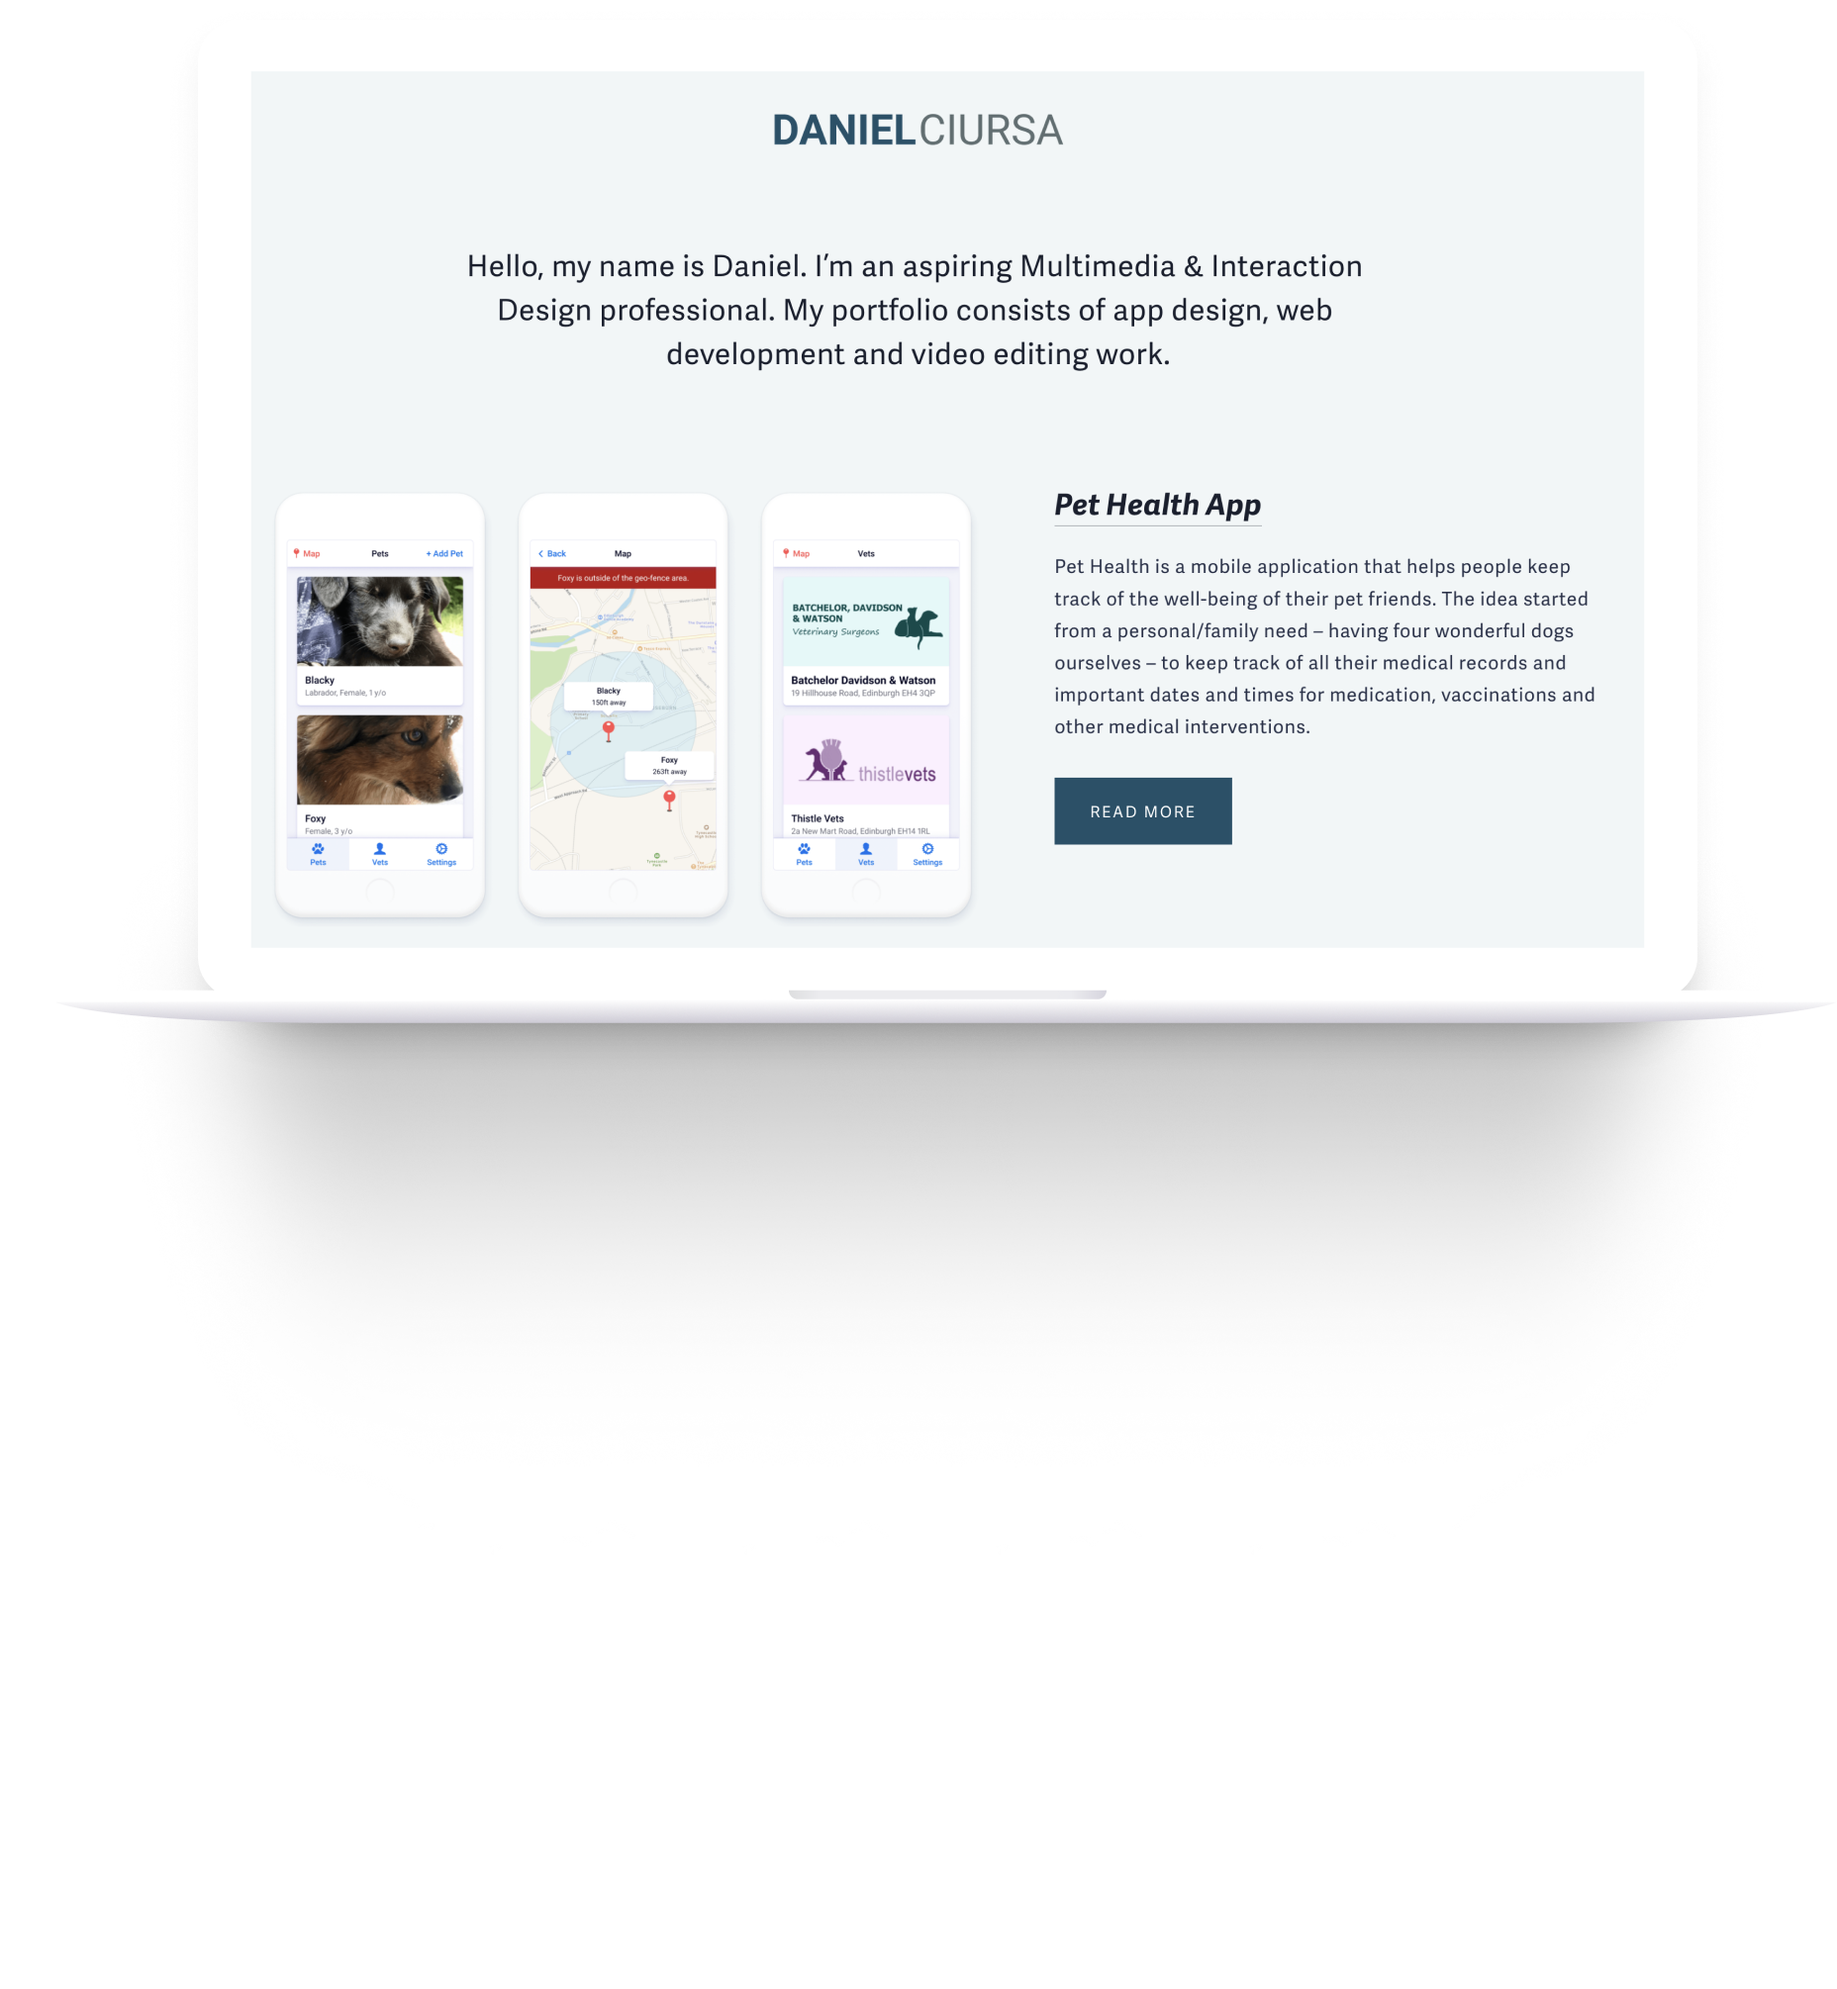
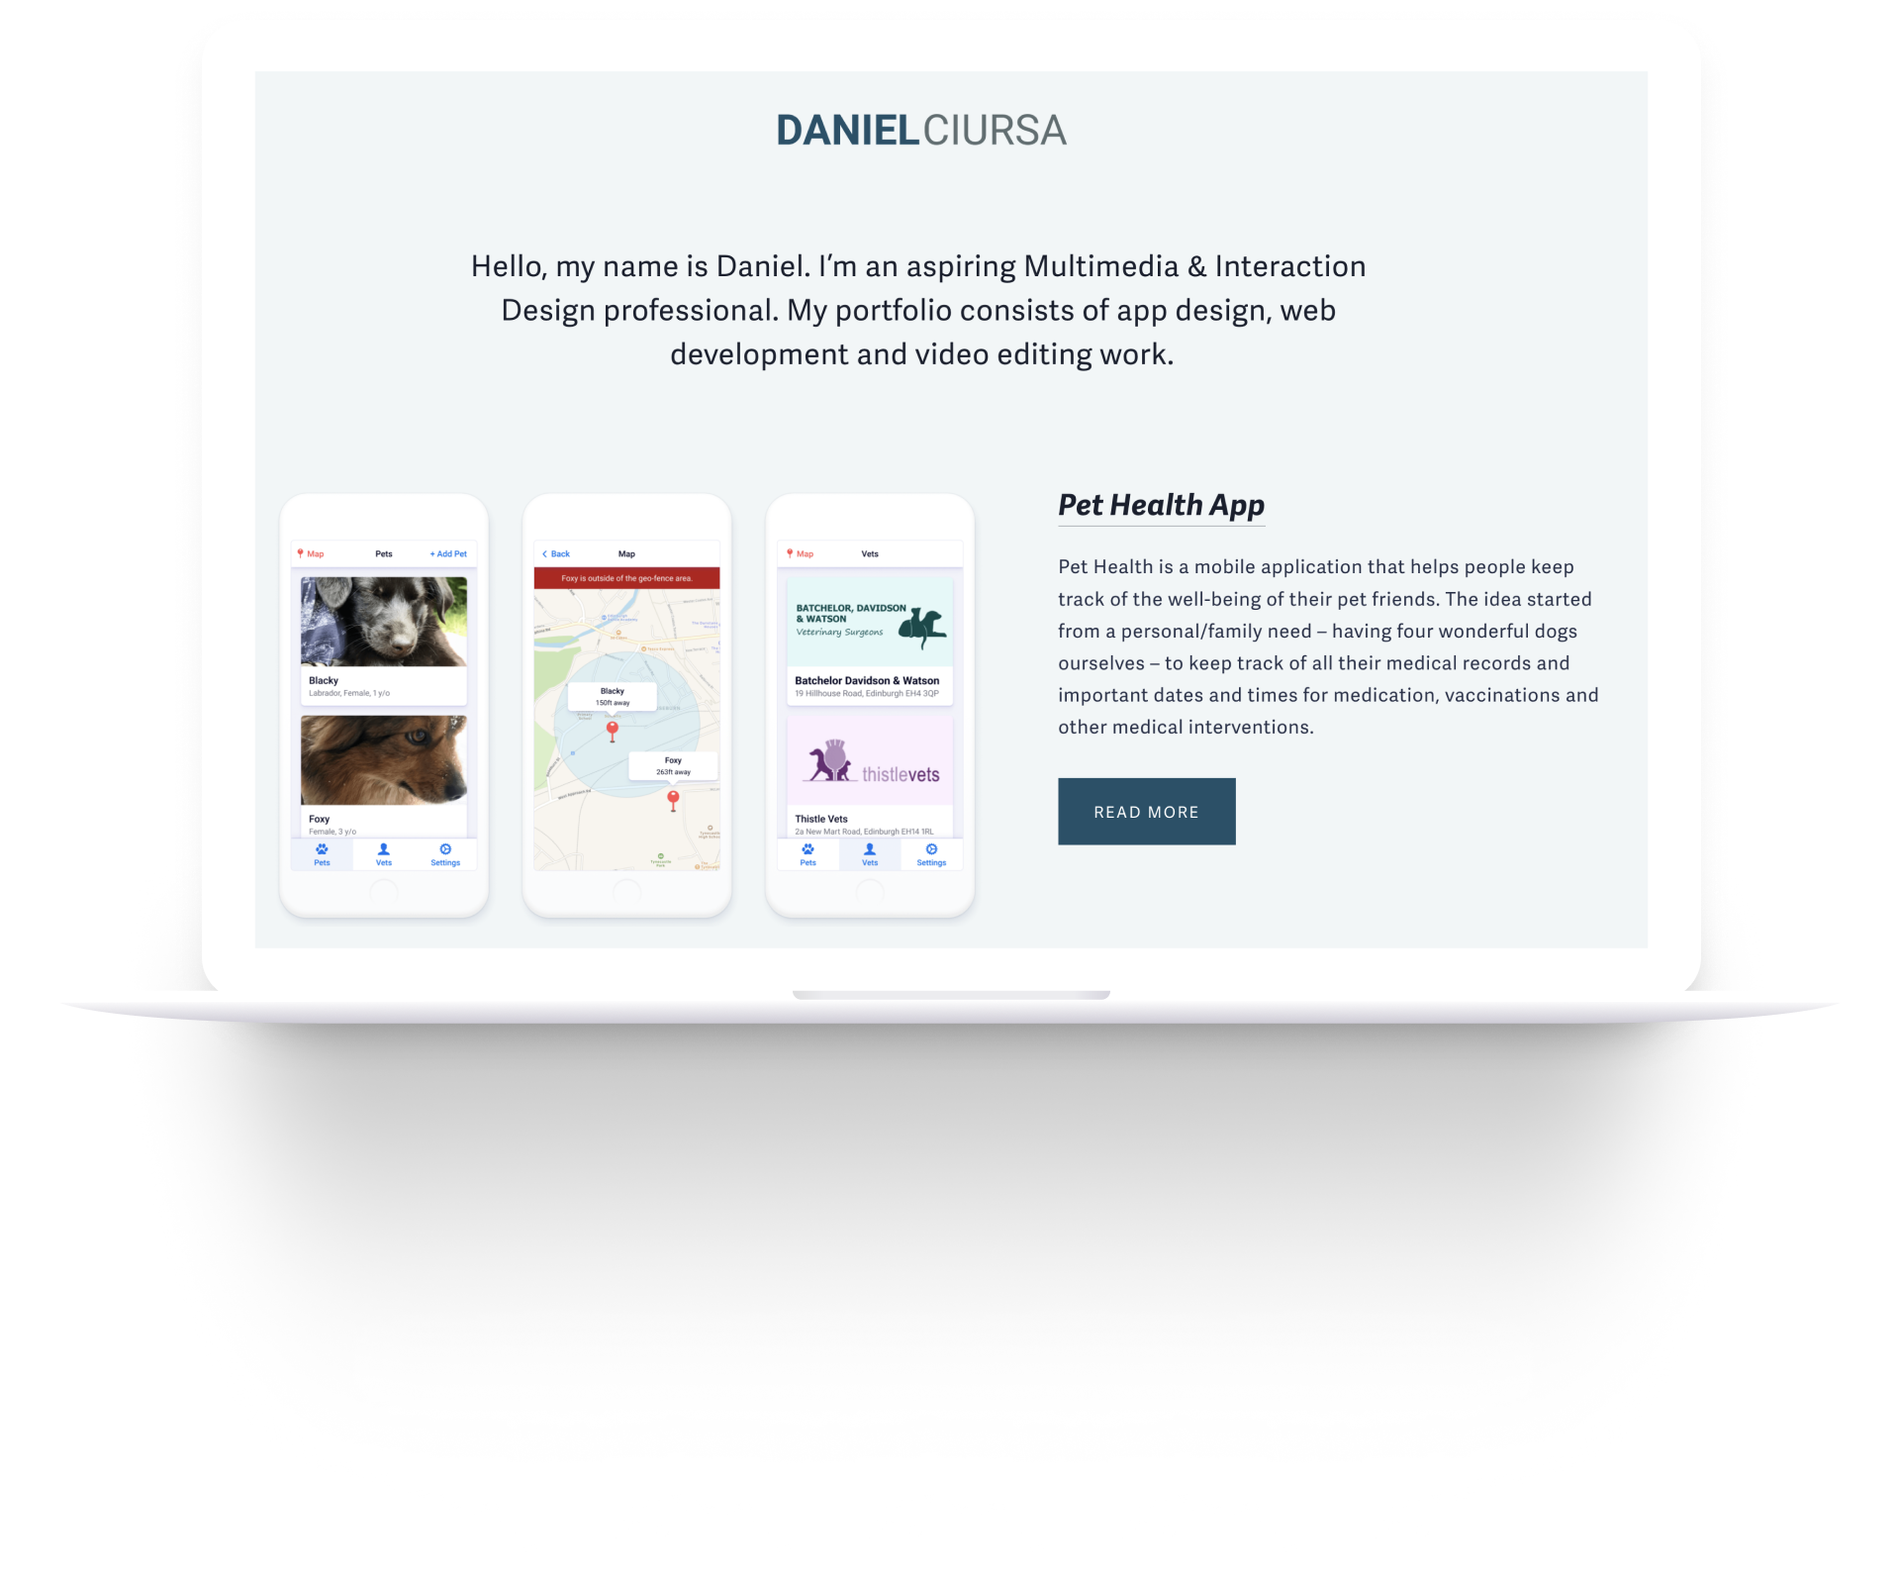
Homepage design

Changed region(s): [[0.0625, 0.125, 0.9375, 0.7812], [0.4062, 0.0625, 0.5625, 0.0938]]

diff --git a/index.html b/index.html
@@ -1,64 +1,91 @@
 <!DOCTYPE html>
 <html lang="en">
-<head>
-  <meta charset="UTF-8">
-  <meta name="viewport" content="width=device-width, initial-scale=1.0">
-  <meta http-equiv="X-UA-Compatible" content="ie=edge">
-  <title>Daniel Ciursa</title>
-  <link href="style.css" rel="stylesheet">
-</head>
-<body>
-  <a href="index.html" class="logo">
-    <img src="img/logo@2x.png" alt="Logo of Daniel Ciursa" width="208" height="36" />
-  </a>
+  <head>
+    <meta charset="UTF-8">
+    <meta name="viewport" content="width=device-width, initial-scale=1.0">
+    <meta http-equiv="X-UA-Compatible" content="ie=edge">
+    <title>Daniel Ciursa</title>
+    <link href="css/reset.css" rel="stylesheet">
+    <link href="css/style.css" rel="stylesheet">
+  </head>
+  <body>
+    <div class="wrapper">
+      <a href="index.html" class="logo">
+        <img src="img/logo@2x.png" alt="Logo of Daniel Ciursa" width="208" height="36" />
+      </a>
+  
+      <p class="intro">
+        Hello, my name is Daniel. I’m an aspiring Multimedia & Interaction Design student. My portfolio consists of web/app design and video editing work.
+      </p>
+  
+      <section class="project">
+        <div>
+          <img class="project-image" src="img/mockup-squarespace-portfolio@2x.png" width="960" height="1005" />
+        </div>
+        <div class="project-content">
+          <h2 class="project-title">
+            <a href="">Pet Health App</a>
+          </h2>
+          <p class="project-description">
+            Pet Health is a mobile application that helps people keep track of the well-being of their pet friends. The idea started from a personal/family need – having four wonderful dogs ourselves – to keep track of all their medical records and important dates and times for medication, vaccinations and other medical interventions.
+          </p>
+          <a href="" class="button">Read More</a>
+        </div>
+      </section>
+  
+      <section class="project">
+        <div>
+          <img class="project-image" src="img/mockup-clash-royale@2x.png" width="960" height="1005" />
+        </div>
+        <div class="project-content">
+          <h2 class="project-title">
+            <a href="">Clash Royale Website</a>
+          </h2>
+          <p class="project-description">
+            After learning HTML and CSS from various online courses and tutorials, the Clash Royale was one of the first multi-page websites I developed, inspired by the mobile game with the same name from Supercell. Click "Read More" below to view a short clip of my development process and see the website in action.
+          </p>
+          <a href="" class="button">Read More</a>
+        </div>
+      </section>
+  
+      <section class="project">
+        <div>
+          <img class="project-image" src="img/mockup-league-of-legends@2x.png" width="960" height="1005" />
+        </div>
+        <div class="project-content">
+          <h2 class="project-title">
+            <a href="">League of Legends Website</a>
+          </h2>
+          <p class="project-description">
+            League of Legends is one of my favourite desktop games and I used it as inspiration for this website. My goal with this project was to learn more about CSS transitions/animations and create a responsive website. Follow the link below to read more and see the website in action.
+          </p>
+          <a href="" class="button">Read More</a>
+        </div>
+      </section>
+  
+      <section class="project">
+        <div>
+          <img class="project-image" src="img/mockup-squarespace-portfolio@2x.png" width="960" height="1005" />
+        </div>
+        <div class="project-content">
+          <h2 class="project-title">
+            <a href="">Portfolio Design</a>
+          </h2>
+          <p class="project-description">
+            I designed this portfolio using SquareSpace with some minimal tweaks to its CSS. Follow the link below to see a video of the design and development process.
+          </p>
+          <a href="" class="button">Read More</a>  
+        </div>
+      </section>
+    </div>
 
-  <p class="intro">
-    Hello, my name is Daniel. I’m an aspiring Multimedia & Interaction Design student. My portfolio consists of web/app design and video editing work.
-  </p>
-
-  <section class="project">
-    <h2 class="project-title">
-      <a href="">Pet Health App</a>
-    </h2>
-    <p class="project-description">
-      Pet Health is a mobile application that helps people keep track of the well-being of their pet friends. The idea started from a personal/family need – having four wonderful dogs ourselves – to keep track of all their medical records and important dates and times for medication, vaccinations and other medical interventions.
-    </p>
-    <a href="" class="button">Read More</a>
-    <!-- <img src="img/mockup-squarespace-portfolio@2x.png" widht="928" height="1005" /> -->
-  </section>
-
-  <section class="project">
-    <h2 class="project-title">
-      <a href="">Clash Royale Website</a>
-    </h2>
-    <p class="project-description">
-      After learning HTML and CSS from various online courses and tutorials, the Clash Royale was one of the first multi-page websites I developed, inspired by the mobile game with the same name from Supercell. Click "Read More" below to view a short clip of my development process and see the website in action.
-    </p>
-    <a href="" class="button">Read More</a>
-    <!-- <img src="img/mockup-squarespace-portfolio@2x.png" widht="928" height="1005" /> -->
-  </section>
-
-  <section class="project">
-    <h2 class="project-title">
-      <a href="">League of Legends Website</a>
-    </h2>
-    <p class="project-description">
-      League of Legends is one of my favourite desktop games and I used it as inspiration for this website. My goal with this project was to learn more about CSS transitions/animations and create a responsive website. Follow the link below to read more and see the website in action.
-    </p>
-    <a href="" class="button">Read More</a>
-    <!-- <img src="img/mockup-squarespace-portfolio@2x.png" widht="928" height="1005" /> -->
-  </section>
-
-  <section class="project">
-    <h2 class="project-title">
-      <a href="">Portfolio Design</a>
-    </h2>
-    <p class="project-description">
-      I designed this portfolio using SquareSpace with some minimal tweaks to its CSS. Follow the link below to see a video of the design and development process.
-    </p>
-    <a href="" class="button">Read More</a>
-    <!-- <img src="img/mockup-squarespace-portfolio@2x.png" widht="928" height="1005" /> -->
-  </section>
-
-</body>
+    <footer>
+      <a class="email" href="mailto:daniel.ciursa@gmail.com">
+        daniel.ciursa@gmail.com
+      </a>
+      <div class="copyright">
+        Powered by Shockatie
+      </div>
+    </footer>
+  </body>
 </html>

diff --git a/css/style.css b/css/style.css
@@ -1,0 +1,106 @@
+html {
+  border-top: 3px solid #2c5067;
+  background-color: #f2f7f4;
+  color: #1a1f2d;
+  font-family: sans-serif;
+  font-size: 18px;
+  width: 100%;
+}
+
+.wrapper {
+  max-width: 1280px;
+  margin: 0 auto;
+  padding: 0 50px 50px;
+}
+
+h1, h2, h3, h4, h5, h6 {
+  font-weight: bold;
+  margin-bottom: 0.75em; 
+}
+
+h1 { font-size: 32px; }
+h2 { font-size: 28px; }
+h3 { font-size: 24px; }
+h4 { font-size: 22px; }
+h5 { font-size: 20px; }
+h6 { font-size: 18px; }
+
+p {
+  line-height: 1.5em;
+}
+
+.logo {
+  width: 208px;
+  height: 36px;
+  display: block;
+  margin: 28px auto 80px;
+}
+
+.intro {
+  font-size: 28px;
+  text-align: center;
+  max-width: 880px;
+  margin: 0 auto 80px; 
+}
+
+.project {
+  margin: 0 0 160px;
+}
+
+@media (min-width:800px) {
+  .project {
+    display: flex;
+  }
+}
+
+.project-image {
+  width: 100%;
+  height: auto;
+  max-width: 860px;
+  margin-bottom: -80px;
+}
+
+.project-content {
+  flex: 1 0 400px;
+}
+
+.project-title {
+  font-style: italic;
+}
+
+.project-title a {
+  color: #1a1f2d;
+  text-decoration: none;
+  border-bottom: 1px solid grey;
+}
+
+.project-description {
+  margin-bottom: 32px;
+}
+
+.button {
+  color: #fff;
+  background-color: #2c5067;
+  text-decoration: none;
+  text-transform: uppercase;
+  padding: 16px 24px;
+  display: inline-block;
+}
+
+footer {
+  background-color: #e6eef0;
+  padding: 80px 50px;
+  text-align: center; 
+}
+
+footer .email {
+  border-bottom: 1px solid grey;
+  text-decoration: none;
+  font-size: 30px;
+  color: #1a1f2d;
+}
+
+footer .copyright {
+  margin-top: 32px;
+  font-size: 19px;
+}

diff --git a/css/reset.css b/css/reset.css
@@ -1,0 +1,48 @@
+/* http://meyerweb.com/eric/tools/css/reset/ 
+   v2.0 | 20110126
+   License: none (public domain)
+*/
+
+html, body, div, span, applet, object, iframe,
+h1, h2, h3, h4, h5, h6, p, blockquote, pre,
+a, abbr, acronym, address, big, cite, code,
+del, dfn, em, img, ins, kbd, q, s, samp,
+small, strike, strong, sub, sup, tt, var,
+b, u, i, center,
+dl, dt, dd, ol, ul, li,
+fieldset, form, label, legend,
+table, caption, tbody, tfoot, thead, tr, th, td,
+article, aside, canvas, details, embed, 
+figure, figcaption, footer, header, hgroup, 
+menu, nav, output, ruby, section, summary,
+time, mark, audio, video {
+	margin: 0;
+	padding: 0;
+	border: 0;
+	font-size: 100%;
+	font: inherit;
+	vertical-align: baseline;
+}
+/* HTML5 display-role reset for older browsers */
+article, aside, details, figcaption, figure, 
+footer, header, hgroup, menu, nav, section {
+	display: block;
+}
+body {
+	line-height: 1;
+}
+ol, ul {
+	list-style: none;
+}
+blockquote, q {
+	quotes: none;
+}
+blockquote:before, blockquote:after,
+q:before, q:after {
+	content: '';
+	content: none;
+}
+table {
+	border-collapse: collapse;
+	border-spacing: 0;
+}
